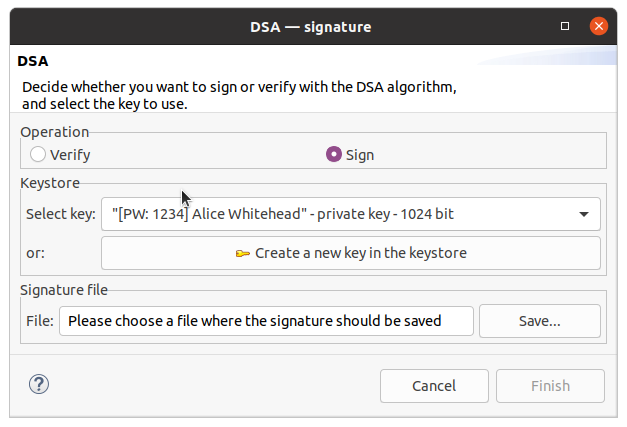
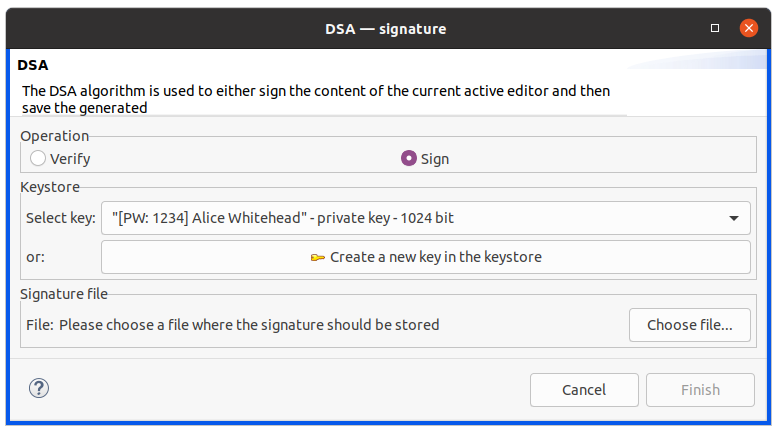
JCT core, Default-Persp, Algorithms, Symmetric: Online help texts: just start in E

Changed region(s): [[0.0, 0.0, 1.0, 1.0], [0.6061, 0.9133, 0.6364, 0.9438]]

diff --git a/org.jcryptool.core.help/nl/en/single/DSA.html b/org.jcryptool.core.help/nl/en/single/DSA.html
@@ -23,7 +23,6 @@
 
 <h2>Operation of the dialog</h2>
 	
-	TODO_1: update screenshot
 	<p> <img src="PLUGINS_ROOT/org.jcryptool.core.help/$nl$/single/img/DSA_sign_Alice-key.png" width="85%" alt="Dialog creating a DSA signature using Alice's private key from the keystore"> </p>
 	
 	<p>You have the choice to either create a DSA signature (sign) or to verify a DSA signature. Both, the signing and the verifying process here always uses the content of the current active editor as data (message).</p>
@@ -35,8 +34,11 @@
 	<p>If you select the radio button <b>Verify</b>, the public key of the signer is used and you have to specify the filename and path where to load the signature from.
 	After these preparation steps click on the button <b>Finish</b>. Then a validation dialog pops up which shows the result of the verification (valid or invalid).</p>
 
-    <p>The signer's keys are always taken from the keystore. For verification an existing key from the keystore has to be chosen. For signing you can either select an existing asymmetric key (JCT always suggests a matching key from Alice if it exists) or you can first create a new one, store it in the keystore, and then select the newly generated key.
-	TODO_2: xxxx Creating a matching key for DSA in the keystore yourself in a new dialog called "xxxxNew symmetric key" (e.g. for the user "Alice Whitehead" or better for your own user name). You will be asked with which password this new key should be protected. After clicking on <b>Finish</b> you will return to the "DSA" dialog. If you now click on <b>Finish</b> here too, another dialog appears in which you must enter the password you have just set for the key. Since the new key is now entered in the keystore, you can use it again later (without having to create a new key first). xxxxxxxxxxxxxxxxx</p>
+    <p>The signer's keys are always taken from the keystore. For verification an existing key from the keystore has to be chosen. For signing you can either select an existing asymmetric key (JCT always suggests a matching key from Alice if it exists) or you can first create a new one, store it in the keystore, and then select the newly generated key.</p>
+
+    <p>Pressing <b>Create a new key for DSA in the keystore</b> opens a new dialog called "New key pair" (e.g. for the user "Alice Whitehead" or better for yourself, by just writing a user name in the user field and overwrite "Alice"). You will be asked with which password this new key should be protected. 
+	xxxxx Choose file nicht enable, und genausowenig "Finish". xxxxxxxx
+	After clicking on <b>Finish</b> you will return to the "DSA &mdash; signature" dialog. If you click on <b>Finish</b> here too, another dialog appears in which you must enter the password you have just set for the key. Since the new key is now entered in the keystore, you can use it again later (without having to create a new key first). xxxxxxxxxxxxxxxxx</p>
 
 
     <!-- <p>xxxxxxxxxxxx The output (DSA signature) has a length xxxxxxxxxx is always a hash value of the length of the used hash procedure (here MD5 with 128 bit = 16 byte), e.g. F6 5B 71 96 D6 56 AD BA 1F 45 0B 1B 28 D7 16 75.</p>  -->

diff --git a/org.jcryptool.core.help/nl/en/help/users/algorithms/encryption/symmetric/toc.html b/org.jcryptool.core.help/nl/en/help/users/algorithms/encryption/symmetric/toc.html
@@ -5,10 +5,64 @@
       <meta http-equiv="Content-Type" content="text/html; charset=UTF-8">
 	  <title>Symmetric Encryption</title>
 </head>
-
 <body>
-	<h1>Symmetric Encryption</h1>
 
-	<p>The following pages contain information about the available crypto plug-ins belonging to the <strong>Symmetric Algorithms</strong> category.</p>
+	<h1>Modern Symmetric Encryption</h1>
+
+	<p>The JCT menu <strong><a href="./../toc.html">Algorithms</a> → Symmetric</strong> has the following entries:</p>
+
+<!--
+	    HERE WE ARE:
+		/core/org.jcryptool.core.help/nl/en/help/users/algorithms/encryption/symmetric/toc.html
+		ZIEL:
+		/core/org.jcryptool.core.help/$nl$/single/SHA256.html
+		oder
+        /crypto/org.jcryptool.crypto.modern.sha3/$nl$/help/content/UI/TutorialUI.html
+-->
+    <table>
+    <tbody>
+
+        <tr>
+          <td><a href="PLUGINS_ROOT/org.jcryptool.core.help/$nl$/single/AES.html">AES</a></td>
+          <td>AES</td>
+        </tr>
+
+        <tr>
+          <td><a href="PLUGINS_ROOT/org.jcryptool.core.help/$nl$/single/RC6.html">ARC4/Spritz</a></td>
+          <td>xxARC4/Spritz</td>
+        </tr>
+
+        <tr>
+          <td><a href="PLUGINS_ROOT/org.jcryptool.core.help/$nl$/single/AES.html">Dragon</a></td>
+          <td>xxDragon</td>
+        </tr>
+
+        <tr>
+          <td><a href="PLUGINS_ROOT/org.jcryptool.core.help/$nl$/single/IDEA.html">IDEA</a></td>
+          <td>IDEA</td>
+        </tr>
+
+<!-- 
+file:///home/bet/Downloads/jct-git/crypto/org.jcryptool.crypto.modern.stream.lfsr/nl/en/help/content/UI/tutorialUI.html
+
+und darunter
+
+file:///home/bet/Downloads/jct-git/crypto/org.jcryptool.crypto.modern.stream.lfsr/nl/en/help/content/tutorial.html
+-->
+        <tr>
+          <td><a href="PLUGINS_ROOT/org.jcryptool.crypto.modern.stream.lfsr/$nl$/help/content/UI/tutorialUI.html">LFSR</a></td>
+          <td>xxxxxLFSR</td>
+        </tr>
+
+        <tr>
+          <td><a href="PLUGINS_ROOT/org.jcryptool.core.help/$nl$/single/RC6.html">RC6</a></td>
+          <td>RC6</td>
+        </tr>
+
+    </tbody>
+	</table>
+
+	
 </body>
 </html>
+

diff --git a/org.jcryptool.core.help/nl/de/help/users/about/about.html b/org.jcryptool.core.help/nl/de/help/users/about/about.html
@@ -10,9 +10,13 @@
 	<h1>Über JCrypTool</h1>
 
 	<p>JCrypTool (JCT) ist eine moderne und umfangreich erweiterbare E-Learning-Plattform rund um die Themen Kryptografie, Kryptoanalyse und IT-Security. Es unterstützt Lernende und Lehrende, Entwickler und andere an der Kryptografie Interessierte in der Anwendung und bei der Analyse von kryptografischen Mechanismen.</p>
+	
     <p>JCrypTool wird als freie, Plattform-unabhängige Open-Source-Software zur Verfügung
 	gestellt und ist Teil des Open-Source-Projekts <a href="http://www.cryptool.org/">CrypTool</a>.</p>
+	
     <p>Einen tabellarischen Überblick über alle Funktionen in allen CrypTool-Programmen (inclusive JCT) finden Sie auf der CrypTool-Website im <a href="https://www.cryptool.org/de/ctp-dokumentation/funktionsumfang">Funktions-Überblick</a>.</p>
+
+	<p>Einen ausführlichen Überblick, was man mit JCT machen kann, finden Sie in der <a href="https://www.cryptool.org/de/jct/documentation/user-presentation.html">Benutzer-Präsentation zum JCrypTool-Projekt</a>.</p>
 
 	<p>JCT wird seit 2009 entwickelt. Mehr als 200 Personen trugen dazu bei. Nach vielen Weekly Builds, Betaversionen und 9 Milestone-Versionen wurde das Release 1.0 im September 2020 veröffentlicht. Es enthält rund 250 kryptologische Funktionen, viele davon als Visualisierung. Wir lernten eine Menge über remote und agile Programming, und über die Hürden der Java-Infrastruktur. Aber am Wichtigsten: Wir hoffen, dass die Nutzer viel Spaß haben werden, mit JCT Kryptografie und Kryptoanalyse zu erfahren und zu lernen.</p>
 

diff --git a/org.jcryptool.core.help/nl/en/help/users/about/about.html b/org.jcryptool.core.help/nl/en/help/users/about/about.html
@@ -10,8 +10,12 @@
 	<h1>About JCrypTool</h1>
 
 	<p>JCrypTool (JCT) is an extendable e-learning platform presenting cryptography, cryptanalysis, and IT Security in a modern and easy-to-use fashion.</p>
+	
     <p>JCrypTool is built as platform-independent open-source software and is part of the open-source project <a href="http://www.cryptool.org/">CrypTool</a>.</p>
+	
     <p>A tabular overview about all functions in all CrypTool programs including JCT can be found at the CrypTool website in the <a href="https://www.cryptool.org/en/ctp-documentation/functionvolume">function overview</a>.</p>
+
+	<p>An exhaustive overview what you can do with JCT can be found in the <a href="https://www.cryptool.org/en/jct/documentation/user-presentation">User presentation of the JCrypTool project</a>.</p>
 	
 	<p>JCT is developed since 2009. More than 200 people contributed. After many weekly builds, beta versions and 9 milestone versions, the release 1.0 was published in September 2020. JCT contains about 250 cryptologic functions, many of them as visualizations. We learned a lot about remote and agile programming, and about the hurdles of the Java infrastructure. And most important, we hope the users will have fun learning and experiencing cryptography and cryptanalysis.</p>
 

diff --git a/org.jcryptool.core.help/nl/de/single/DSA.html b/org.jcryptool.core.help/nl/de/single/DSA.html
@@ -23,7 +23,6 @@
 
 <h2>Bedienung des Dialogs</h2>
 	
-	TODO_1: Bildschirmfoto aktualisieren
 	<p> <img src="PLUGINS_ROOT/org.jcryptool.core.help/$nl$/single/img/DSA_sign_Alice-key.png" width="85%" alt="Dialog zum Erstellen einer DSA-Signatur unter Verwendung von Alices privatem Schlüssel aus dem Schlüsselspeicher"> </p>
 	
 	<p>Sie haben die Wahl, entweder eine DSA-Signatur zu erstellen (signieren) oder eine DSA-Signatur zu prüfen (verifizieren). Sowohl der Signier- als auch der Verifizierungsprozess verwendet hier immer den Inhalt des aktuell aktiven Editors als Daten (Nachricht).</p>

diff --git a/org.jcryptool.core.help/nl/en/help/users/algorithms/hash/toc.html b/org.jcryptool.core.help/nl/en/help/users/algorithms/hash/toc.html
@@ -5,8 +5,8 @@
       <meta http-equiv="Content-Type" content="text/html; charset=UTF-8">
 	  <title>Hash</title>
 </head>
-
 <body>
+
 	<h1>Hash</h1>
 	
 	<p>The JCT menu <strong><a href="./../toc.html">Algorithms</a> → Hash</strong> has the following entries:</p>
@@ -19,7 +19,7 @@
 		oder
         /crypto/org.jcryptool.crypto.modern.sha3/$nl$/help/content/UI/TutorialUI.html
 -->
-<table>
+    <table>
     <tbody>
 
         <tr>
@@ -38,16 +38,8 @@
         </tr>
 
     </tbody>
-</table>
+	</table>
 
-
-	
-	
-	
-	
-	
-	
-	
 	
 </body>
 </html>

diff --git a/org.jcryptool.core.help/nl/de/help/users/algorithms/encryption/symmetric/toc.html b/org.jcryptool.core.help/nl/de/help/users/algorithms/encryption/symmetric/toc.html
@@ -7,7 +7,7 @@
 </head>
 
 <body>
-	<h1>Symmetrische Algorithmen</h1>
+	<h1>Moderne symmetrische Algorithmen</h1>
 
 	<p>In diesem Bereich finden Sie Informationen zu den installierten Krypto Plug-ins aus dem Bereich der <strong>symmetrischen Algorithmen</strong>.</p>
 </body>
